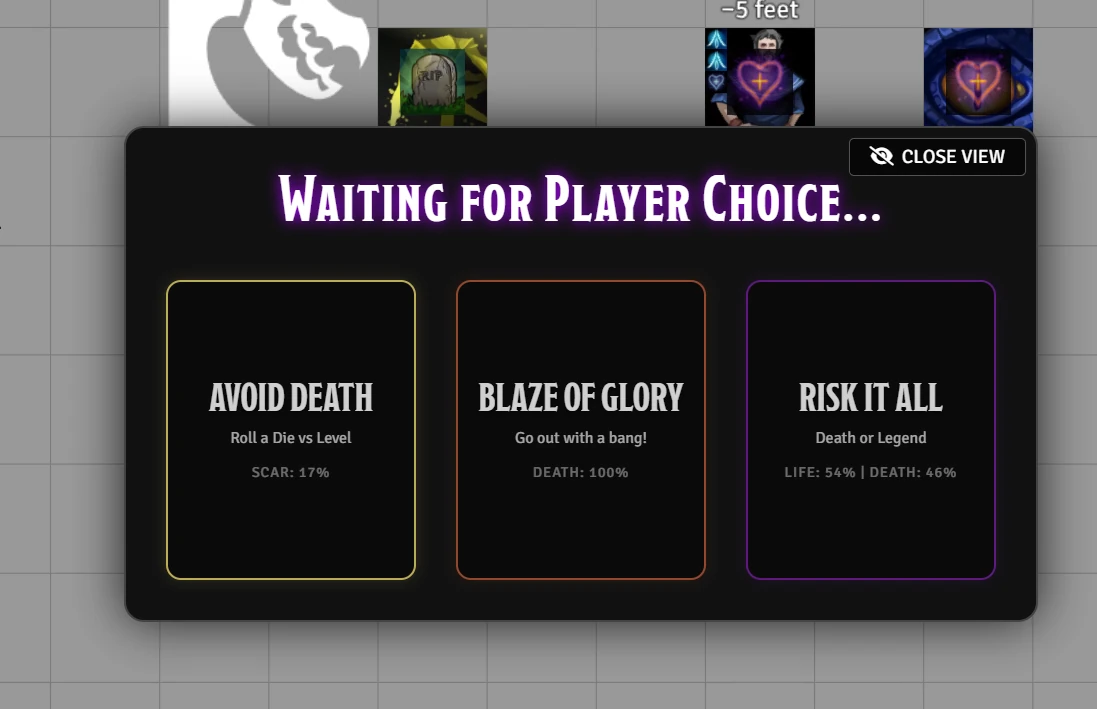
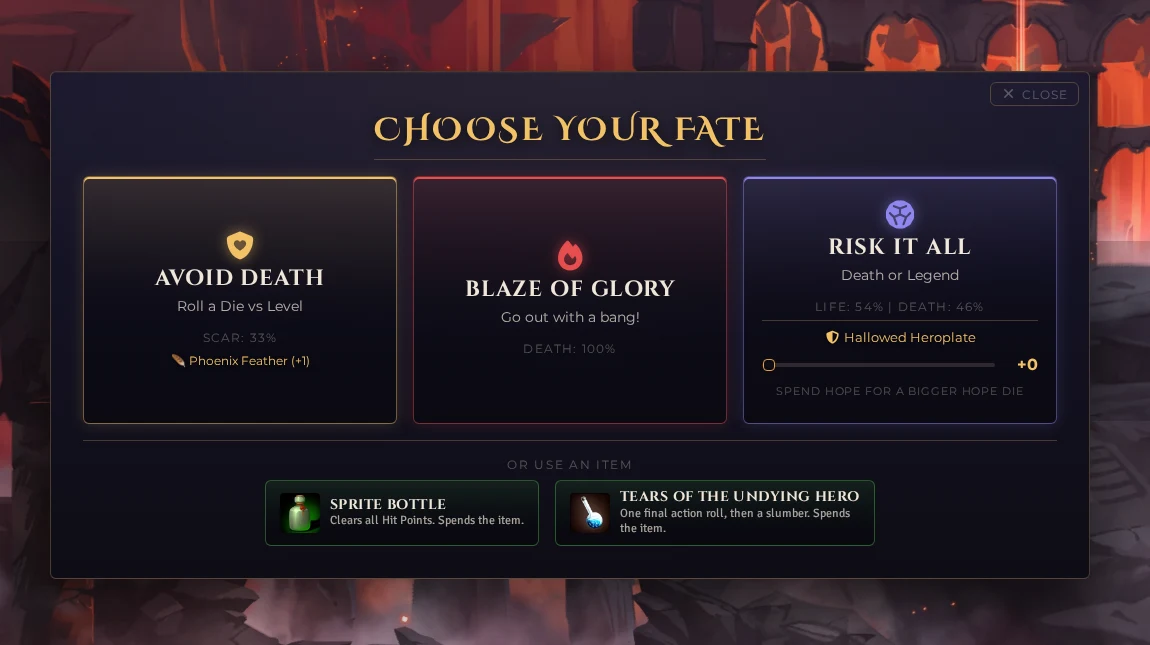
2.5

diff --git a/scripts/character-skull.js b/scripts/character-skull.js
@@ -1,0 +1,115 @@
+/*!
+ * Daggerheart: Death Moves
+ * Copyright (c) 2025 https://github.com/brunocalado
+ *
+ * This program is free software: you can redistribute it and/or modify
+ * it under the terms of the GNU General Public License version 3.
+ */
+
+import { MODULE_ID, SOCKET_NAME, SOCKET_TYPES } from './constants.js';
+
+/**
+ * Takes over the skull the Daggerheart character sheet draws over the portrait once
+ * every Hit Point is marked.
+ *
+ * The system's button opens its own Death Move dialog. This module replaces that whole
+ * flow, so the button is rewired to send the overlay the GM sends from the Daggerheart
+ * menu — the system dialog is never opened.
+ */
+export class DeathSkull {
+    /**
+     * GM-side flow starter, supplied by the controller so this file never imports
+     * main.js back and closes an import cycle.
+     * @type {Function|null}
+     */
+    static _trigger = null;
+
+    /**
+     * Wires the sheet hook. Called once while the module's scripts evaluate.
+     * @param {Function} onTrigger - DeathMovesController.gmTriggerFlow.
+     */
+    static register(onTrigger) {
+        this._trigger = onTrigger;
+        Hooks.on('renderCharacterSheet', (app, element) => DeathSkull._onRenderSheet(app, element));
+    }
+
+    /**
+     * The user this actor's death move belongs to.
+     *
+     * Every step after the overlay reads `game.user.character`, so only a user with this
+     * actor *assigned* can run the flow — being an owner is not enough.
+     * @param {Actor|null} actor - The actor whose sheet was clicked.
+     * @returns {User|null} The user to send the overlay to, or null.
+     */
+    static resolveTargetUser(actor) {
+        if (!actor) return null;
+
+        const assigned = game.users.filter(user => !user.isGM && user.character?.id === actor.id);
+        return assigned.find(user => user.active) ?? assigned[0] ?? null;
+    }
+
+    /**
+     * Repoints the sheet's skull at this module.
+     * @param {Application} app - The character sheet.
+     * @param {HTMLElement} element - The sheet's root element.
+     */
+    static _onRenderSheet(app, element) {
+        const button = element.querySelector('.death-roll-btn');
+        if (!button) return;
+
+        // base.css hangs the module's design tokens off this class, so the button has to
+        // carry it for styles/character-sheet.css to resolve them.
+        button.classList.add(MODULE_ID);
+
+        // The sheet only sets the action when the death move is actually viable; without
+        // it the button stays hidden, so there is nothing to take over.
+        if (button.dataset.action !== 'makeDeathMove') return;
+
+        // Dropping the attribute — rather than swallowing the event — is what keeps the
+        // sheet from treating the skull as one of its own actions at all, and it doubles
+        // as the guard against binding twice if a render ever reuses this element.
+        delete button.dataset.action;
+        button.dataset.tooltip = 'DEATH_OPTIONS.Sheet.SkullTooltip';
+
+        button.addEventListener('click', event => {
+            event.preventDefault();
+            event.stopPropagation();
+            DeathSkull._onClick(app.document);
+        });
+    }
+
+    /**
+     * Sends the death move overlay for the clicked sheet.
+     * @param {Actor} actor - The character whose skull was pressed.
+     */
+    static _onClick(actor) {
+        const target = DeathSkull.resolveTargetUser(actor);
+
+        if (game.user.isGM) {
+            // With no assigned user the flow has no character to act on, so fall through
+            // to the GM's own picker instead of guessing one.
+            return DeathSkull._trigger?.(target?.name ?? null, {
+                characterName: actor.name,
+                reason: game.i18n.format("DEATH_OPTIONS.Dialog.Trigger.FromSheet", { character: actor.name })
+            });
+        }
+
+        if (game.user.character?.id !== actor.id) {
+            return ui.notifications.warn(game.i18n.localize("DEATH_OPTIONS.Notifications.NotAssigned"));
+        }
+
+        // The queue, the spectator overlay and the chat cards are all driven from the GM
+        // client, so a player asks for the flow rather than starting it.
+        if (!game.users.activeGM) {
+            return ui.notifications.warn(game.i18n.localize("DEATH_OPTIONS.Notifications.NoActiveGM"));
+        }
+
+        game.socket.emit(SOCKET_NAME, {
+            type: SOCKET_TYPES.REQUEST_TRIGGER,
+            actorUuid: actor.uuid,
+            userId: game.user.id
+        });
+
+        ui.notifications.info(game.i18n.localize("DEATH_OPTIONS.Notifications.Requested"));
+    }
+}

diff --git a/scripts/main.js b/scripts/main.js
@@ -10,6 +10,7 @@ import { DEATH_MOVES, SOCKET_NAME, SOCKET_TYPES, TEMPLATES } from './constants.j
 import { DeathSettings } from './settings.js';
 import { DeathUI } from './ui.js';
 import { DeathLogic } from './logic.js';
+import { DeathSkull } from './character-skull.js';
 import { renderElement } from './helpers.js';
 
 /**
@@ -48,6 +49,9 @@ class DeathMovesController {
                     break;
                 case SOCKET_TYPES.FLOW_COMPLETE:
                     DeathMovesController._onFlowComplete();
+                    break;
+                case SOCKET_TYPES.REQUEST_TRIGGER:
+                    DeathMovesController._handleTriggerRequest(payload);
                     break;
             }
         });
@@ -103,6 +107,30 @@ class DeathMovesController {
                     }
                 }
             }
+        });
+    }
+
+    /**
+     * Runs a death move a player asked for from their own sheet's skull.
+     *
+     * Only the designated GM acts on it — every GM client receives the broadcast, and
+     * without that guard a table with two GMs would queue the same flow twice.
+     * @param {Object} payload - Socket payload with actorUuid and userId.
+     */
+    static async _handleTriggerRequest(payload) {
+        if (game.users.activeGM?.id !== game.user.id) return;
+
+        const actor = await foundry.utils.fromUuid(payload.actorUuid);
+        if (!actor) return;
+
+        const requester = game.users.get(payload.userId);
+        const target = requester?.character?.id === actor.id
+            ? requester
+            : DeathSkull.resolveTargetUser(actor);
+
+        DeathMovesController.gmTriggerFlow(target?.name ?? null, {
+            characterName: actor.name,
+            reason: game.i18n.format("DEATH_OPTIONS.Dialog.Trigger.FromSheet", { character: actor.name })
         });
     }
 
@@ -332,5 +360,8 @@ Hooks.on("renderDaggerheartMenu", async (app, element, data) => {
     if (existing) existing.after(fieldset);
     else element.appendChild(fieldset);
 });
+
+/** Rewires the skull the character sheet draws over the portrait. */
+DeathSkull.register(DeathMovesController.gmTriggerFlow);
 
 Hooks.once('ready', DeathMovesController.init);

diff --git a/styles/character-sheet.css b/styles/character-sheet.css
@@ -1,0 +1,37 @@
+/*!
+ * Daggerheart: Death Moves
+ * Copyright (c) 2025 https://github.com/brunocalado
+ *
+ * This program is free software: you can redistribute it and/or modify
+ * it under the terms of the GNU General Public License version 3.
+ */
+
+/*
+ * The skull the Daggerheart character sheet draws over the portrait once every Hit
+ * Point is marked. scripts/character-skull.js rewires what it does and tags it with the
+ * module class; this repaints it so it reads as this module's button, not the system's.
+ *
+ * The selector matches the depth of the system's own rule instead of undercutting it.
+ * `color` and `filter` still need !important: the system sets both again per theme from
+ * inside an @scope block, and that specificity cannot be matched portably from outside.
+ */
+.application.sheet.dh-style
+    .character-sidebar-sheet
+    .portrait.death-roll
+    .death-roll-btn.daggerheart-death-moves {
+    color: var(--dm-skull) !important;
+
+    /* The system's filter is grayscale(1), which would flatten the purple to grey. */
+    filter: drop-shadow(0 0 6px var(--dm-ink-deep)) !important;
+
+    &:hover {
+        text-shadow: 0 0 12px var(--dm-skull-rim);
+    }
+
+    /* The rim. paint-order keeps the stroke behind the fill, so it rings the skull
+       instead of eating half of it. */
+    .fa-skull {
+        -webkit-text-stroke: 3px var(--dm-skull-rim);
+        paint-order: stroke fill;
+    }
+}

diff --git a/styles/base.css b/styles/base.css
@@ -43,6 +43,11 @@
     --dm-fear: #352ab2;
     --dm-fear-light: var(--chat-blue, #8f87ee);
 
+    /* The sheet skull this module takes over. Purple to echo the Fear die the death
+       moves roll, rimmed in the light beige so it still reads over a dark portrait. */
+    --dm-skull: #9900ff;
+    --dm-skull-rim: var(--dm-beige);
+
     /* One accent per death move, so a card, its glow and its dice agree. */
     --dm-accent-avoid: var(--dm-gold);
     --dm-accent-blaze: var(--dm-red);

diff --git a/scripts/constants.js b/scripts/constants.js
@@ -17,7 +17,8 @@ export const SOCKET_TYPES = {
     SHOW_BORDER: 'SHOW_BORDER',
     REMOVE_BORDER: 'REMOVE_BORDER',
     HIDE_UNSELECTED: 'HIDE_UNSELECTED',
-    FLOW_COMPLETE: 'FLOW_COMPLETE'
+    FLOW_COMPLETE: 'FLOW_COMPLETE',
+    REQUEST_TRIGGER: 'REQUEST_TRIGGER'
 };
 
 const TEMPLATE_ROOT = `modules/${MODULE_ID}/templates`;

diff --git a/README.md b/README.md
@@ -14,6 +14,7 @@
 ## 🌟 Key Features
 
 ### 🎭 Dramatic Interface
+* **Sheet Skull:** The skull the character sheet puts over the portrait once every Hit Point is marked sends this module's screen instead of the system's own Death Move dialog, and is painted purple to say so. The GM can press it, and so can the player the character belongs to.
 * **Selection Screen:** The dying player faces a compact interface to choose their fate: **Avoid Death**, **Blaze of Glory**, or **Risk it All**.
 * **Spectator Mode:** While the active player decides, all other players (and the GM) see a synchronized "Waiting..." screen, keeping the entire party focused on the moment.
 * **Dramatic Announcements:** Once a choice is made, a text banner appears for everyone, announcing the decision before the results are revealed.
@@ -36,10 +37,18 @@
 
 ## 🛠 How to Use
 
-### 1. The GM Triggers the Move
-The Gamemaster initiates the scene when a character falls:
+### 1. Starting a Death Move
+There are four ways in, and all of them lead to the same screen:
+* **Character Sheet:** Press the purple skull over the portrait. It appears once every Hit Point is marked. A player pressing it asks the GM's client to run the scene, since that is where the queue and the chat cards live — so a GM has to be connected. A death move acts on the character assigned to the player, so the sheet has to be that character.
 * **Sidebar:** Open the Daggerheart Menu (sidebar) and click the **"Trigger Death Move"** button (skull icon). Select the player from the list.
 * **Macro:** Execute `DeathMoves.trigger()` via a script macro. You can use `DeathMoves.trigger("User Name")`.
+* **Automatically:** With **Max HP Trigger** configured, reaching maximum Hit Points starts the move on its own, or opens a confirmation dialog for the GM first.
+
+<p align="center">
+  <img width="200" src="docs/sheet-skull.webp">
+  &nbsp;&nbsp;
+  <img width="360" src="docs/trigger-dialog.webp">
+</p>
 
 <p align="center">
   <img width="400" src="docs/sidebar.webp">
@@ -56,11 +65,19 @@ Any carried item that can replace the death move gets its own button below the t
 ### 3. The Table Watches
 Everyone else is in **Spectator Mode**. They cannot interact, but they see the announcement banner in sync with the active player.
 
+<p align="center">
+  <img width="700" src="docs/spectator.webp">
+</p>
+
 ---
 
 ## ⚙ Configuration
 
 Customize the experience in **Configure Settings > Daggerheart: Death Moves**:
+
+<p align="center">
+  <img width="520" src="docs/settings.webp">
+</p>
 
 * **Automation Mode:** Choose between **None**, **Core** (auto-apply scars and HP/Stress), or **Homebrew** (alternate scar picker).
 * **Max HP Trigger:** Set to **None**, **Open GM Dialog**, or **Trigger Automatically** when HP reaches maximum.
@@ -85,6 +102,8 @@ https://raw.githubusercontent.com/brunocalado/daggerheart-death-moves/main/modul
 * **Code License:** GPL-3.0.
 
 **Disclaimer:** This module is an independent creation and is not affiliated with Darrington Press.
+
+* thumbnail.webp https://www.pexels.com/license/ / https://www.pexels.com/photo/woman-wearing-a-scary-costume-with-horns-18424789/
 
 # 🧰 My Daggerheart Modules
 

diff --git a/CHANGELOG.md b/CHANGELOG.md
@@ -1,3 +1,10 @@
+# 2.5
+
+- [Changed] The skull the character sheet draws over the portrait once every Hit Point is marked now sends this module's death move screen instead of opening the system's own Death Move dialog. It is the same screen the GM sends from the Daggerheart menu, so both ways into a death move now end in the same place.
+- [Changed] A player pressing that skull asks the GM's client to send the screen rather than opening it alone — the queue, the spectator view and the chat cards are all driven from the GM. With two GMs connected only the designated one acts, so the death move is never started twice.
+- [Changed] The skull is purple with a light rim instead of the system's desaturated beige, so it reads as this module's button rather than the system's.
+- [Added] A warning when the skull is pressed on a character that is not the one assigned to that player, and when no GM is connected to send the screen. A death move acts on the assigned character, so an unassigned sheet would otherwise resolve against the wrong one.
+
 # 2.4
 
 - [Changed] Every window the module opens now follows the Daggerheart system's theming rules. Each one carries the system's own dialog classes, so it inherits the parchment frame, inputs and buttons instead of rendering half Daggerheart and half core Foundry — which is what made the Trigger button come out in Foundry's orange.
